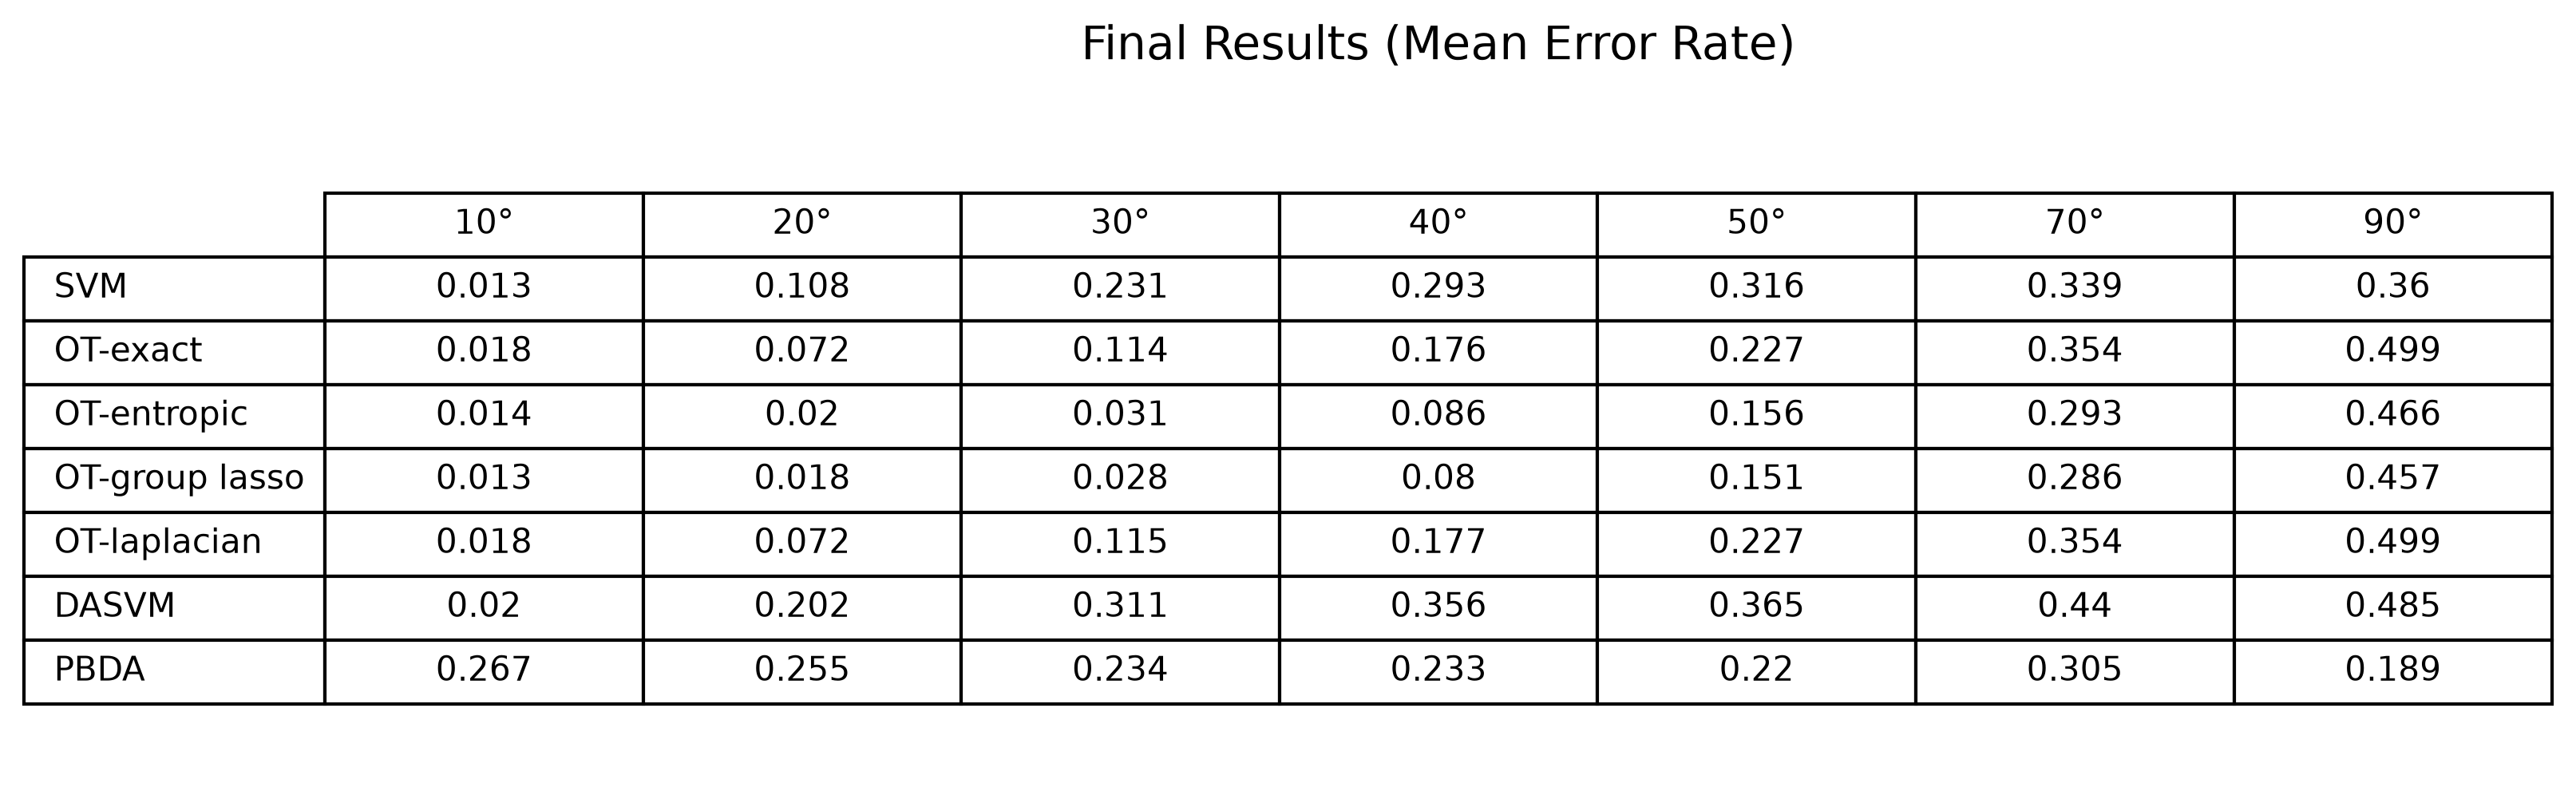
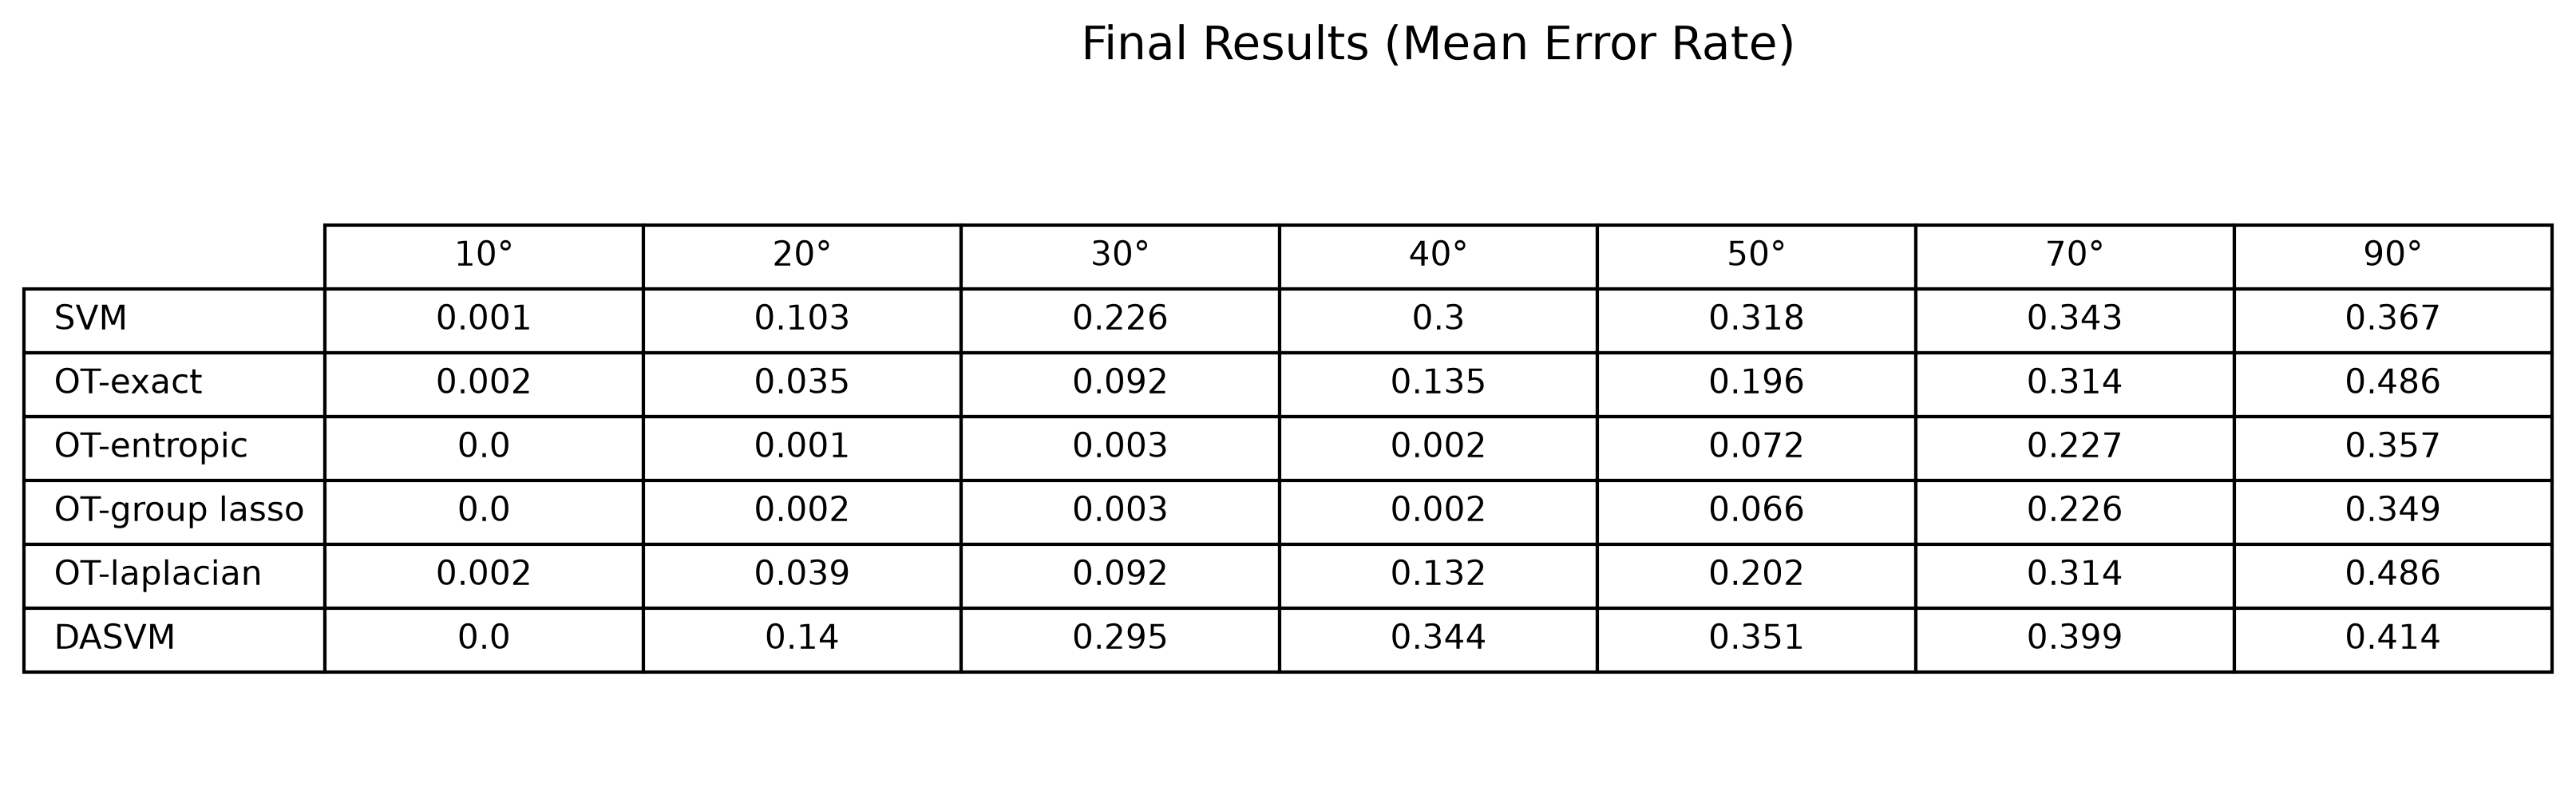
Redoing the expirements with reduced noises

Changed region(s): [[0.0, 0.2801, 0.9916, 0.9026], [0.124, 0.2179, 0.9916, 0.249]]

diff --git a/src/tpami2016_optimal_transport_domain_adaptation/common.py b/src/tpami2016_optimal_transport_domain_adaptation/common.py
@@ -13,150 +13,3 @@ def cost_matrix(A: np.ndarray, B: np.ndarray) -> np.ndarray:
     return C ** 2
 
 
-#-*- coding:utf-8 -*-
-'''
-PAC-BAYESIAN DOMAIN ADAPTATION (aka PBDA)
-Kernel class and KernelClassifier class
-
-@author: Pascal Germain -- http://researchers.lille.inria.fr/pgermain/
-'''
-import numpy as np
-from scipy.spatial.distance import cdist
-from scipy.sparse import issparse
-
-
-# kernel functions
-def linear_kernel(point_1, point_2):
-    return np.dot(point_1, point_2)
-
-
-def linear_matrix(X1, X2):
-    return np.dot(X1, X2.T)
-
-
-def rbf_kernel(point_1, point_2, gamma):
-    diff = point_1 - point_2
-    return np.exp(-gamma * np.dot(diff, diff))
-
-
-def rbf_matrix(X1, X2, gamma):
-    return np.exp(-gamma * cdist(X1, X2, 'sqeuclidean') )
-
-
-def precomputed_matrix(X1, X2):
-    return X2.T
-
-
-class Kernel:
-    """
-    Wrapper around a kernel function.
-    """    
-    def __init__(self, kernel_str='linear', kernel_func=None, matrix_func=None, **kernel_args):
-        """Create a kernel
-        kernel_str: kernel name ('linear', 'rbf', 'precomputed', 'custom')
-        kernel_func: if kernel_str='custom', function to compute the kernel between two example vectors
-        matrix_func: if kernel_str='custom', function to compute the kernel between two example matrices
-        kernel_args: extra kernel arguments (e.g., gamma for the 'rbf' kernel)"""
-        self.name = kernel_str
-        self.args = kernel_args
-        
-        if self.name == 'custom':
-            self.kernel_func = kernel_func
-            self.matrix_func = matrix_func 
-                 
-        elif self.name == 'rbf':
-            self.args.setdefault('gamma', 1.0)
-            self.kernel_func = rbf_kernel
-            self.matrix_func = rbf_matrix 
-            
-        elif self.name == 'linear':
-            self.kernel_func = linear_kernel
-            self.matrix_func = linear_matrix
-            
-        elif self.name == 'precomputed':
-            self.kernel_func = None
-            self.matrix_func = precomputed_matrix
-                     
-        else:
-            raise Exception("Unknown kernel.")
-        
-    def create_matrix(self, X1, X2=None):
-        """Compute the kernel matrix between two example matrices (X1 and X2)
-        If X2 is not specified, then X2=X1"""
-        if self.matrix_func is not None:
-            if X2 is None: X2 = X1
-            kernel_matrix = self.matrix_func(X1, X2, **self.args)
-        
-        elif self.kernel_func is not None:
-            if X2 is not None:
-                dim1 = np.size(X1,0)
-                dim2 = np.size(X2,0)
-                kernel_matrix = np.zeros( (dim1,dim2) )
-                
-                for i in range(dim1):
-                    for j in range(dim2):
-                        kernel_matrix[i,j] = self.kernel_func(X1[i], X2[j], **self.args) 
-            else:
-                dim1 = np.size(X1,0)
-                kernel_matrix = np.zeros( (dim1,dim1) )
-                
-                for i in range(dim1):
-                    for j in range(i+1):
-                        value = self.kernel_func(X1[i], X1[j], **self.args) 
-                        kernel_matrix[i,j] = value
-                        kernel_matrix[j,i] = value       
-        
-        else:
-            raise Exception('kernel function unspecified.')
-        
-        if issparse(kernel_matrix):
-            return kernel_matrix.toarray()
-        else:
-            return kernel_matrix 
-  
-
-class KernelClassifier:
-    """
-    A linear classifier in the kernel space.
-    """
-    def __init__(self, kernel, X, alpha_vector=None):
-        """Create a kernel classifier.
-        kernel: the kernel object
-        X: training examples matrix
-        alpha_vector: weight vector (optional) """
-        self.kernel = kernel
-        self.X1 = X
-        self.X1_shape = np.shape(X) if X is not None else (0,0)
-        
-        if alpha_vector is None:
-            self.alpha_vector = np.zeros(self.X1_shape[0])
-        else:
-            self.alpha_vector = alpha_vector
-
-    def create_matrix(self, X2):
-        """Create a kernel matrix between the training matrix and X2"""
-        return self.kernel.create_matrix(self.X1, X2)
-          
-    def create_self_matrix(self): 
-        """Create a kernel matrix between the training matrix and itself"""  
-        return self.kernel.create_matrix(self.X1)
-    
-    def predict(self, X=None, kernel_matrix=None):
-        """Classifies examples (i.e., return a prediction vector)""" 
-        if kernel_matrix is None:
-            if X is not None:
-                kernel_matrix = self.create_matrix(X)
-            else:
-                raise Exception('Nothing to classify!')
-            
-        return np.dot(kernel_matrix.T, self.alpha_vector)
-    
-    def calc_risk(self, Y, X=None, kernel_matrix=None, predictions=None):
-        """Compute the classification risk on a datatset."""
-        if predictions is None:
-            predictions = self.predict(X, kernel_matrix)            
-        return np.mean( predictions * Y <= 0.0 )
-    
-    def write_to_file(self, filename):
-        """Write the weight vector into a file."""
-        self.alpha_vector.tofile(filename, '\n')

diff --git a/src/tpami2016_optimal_transport_domain_adaptation/datasets.py b/src/tpami2016_optimal_transport_domain_adaptation/datasets.py
@@ -14,7 +14,7 @@ class TwoMoonsDataset:
     angle is large, as the distributions become significantly different.
     """
 
-    def __init__(self, noise=0.1, seed=42):
+    def __init__(self, noise=0.01, seed=42):
         """
         Initialize the Two Moons dataset generator.
         
@@ -91,88 +91,53 @@ class TwoMoonsDataset:
         X = self.rotate(X, angle)
         return X, y
 
-class Dataset:
-    """ 
-    Binary classification dataset
-    
-    X -- Examples matrix (each row is a vector of features)
-    Y -- Label vector
-    """
-    def __init__(self, X=None, Y=None):
-        self.X = X
-        self.Y = Y
-        
-    def load_matrix_file(self, filename, separator=None, first_column_contains_labels=True, last_column_contains_labels=False):       
-        """ Load a matrix file, where each line defines an example.
-        first_column_contains_labels: specifies that first matrix column defines the labels (default)
-        last_column_contains_labels:  specifies that last matrix column defines the labels 
-        """
-        data_matrix = np.loadtxt(filename, delimiter=separator)
-        
-        if first_column_contains_labels and last_column_contains_labels:
-            raise Exception('first_column_contains_labels and last_column_contains_labels')
-        elif last_column_contains_labels:
-            self.X = data_matrix[ :, :-1 ]
-            self.Y = data_matrix[ :, -1 ]
-        elif first_column_contains_labels:
-            self.X = data_matrix[ :, 1: ]
-            self.Y = data_matrix[ :, 0] 
+
+# ========================== Code de visualisation ==========================
+def plot_two_moons():
+    dataset = TwoMoonsDataset(noise=0.1, seed=42)
+    angles = [0, 20, 40, 90]
+    n_samples = 300  # 150 par classe
+
+    # Création d'une figure avec 4 sous-graphiques
+    fig, axs = plt.subplots(2, 2, figsize=(12, 10))
+    axs = axs.ravel()
+
+    for i, angle in enumerate(angles):
+        if angle == 0:
+            X, y = dataset.source(n_samples)
+            title = "Source domain (0°)"
         else:
-            self.X = data_matrix
-            self.Y = np.zeros( np.size(data_matrix, 0) )       
+            X, y = dataset.target(n_samples, angle)
+            title = f"Target domain ({angle}°)"
 
-    def load_svmlight_file(self, filename, min_features=0):
-        """ Load a svmlight file (see http://svmlight.joachims.org/).
-        min_features: specifies the minimum number of features for an example
-        """
-        with open(filename) as f:
-            lines_list = f.readlines()
-                    
-        examples_list = []                  
-        labels_list   = []
-        nb_features   = min_features
+        # Séparation des deux classes
+        class0 = X[y == 0]
+        class1 = X[y == 1]
+
+        ax = axs[i]
+        ax.scatter(class0[:, 0], class0[:, 1], c='blue', label='Classe 0', alpha=0.7, s=40)
+        ax.scatter(class1[:, 0], class1[:, 1], c='red', label='Classe 1', alpha=0.7, s=40)
         
-        for line in lines_list:
-            elems_list = [ e.split(':') for e in line.split() ] 
-            
-            if len(elems_list[0]) == 1:
-                labels_list.append( float(elems_list[0][0]) )
-                first_feature_index = 1
-            else:
-                labels_list.append(0.0)
-                first_feature_index = 0
-            
-            features_list = [ tuple([ int(e[0]), float(e[1]) ])  for e in elems_list[first_feature_index:] ]
-            examples_list.append( features_list )
-            nb_features = max(nb_features, max( features_list )[0] )
-            
-        self.X = np.zeros( (len(labels_list), nb_features) )
-        for i in range( len(labels_list) ):
-            for (j, val) in examples_list[i]:
-                self.X[i,j-1] = val
-                
-        self.Y = np.array(labels_list)
-                 
-    def get_nb_examples(self):
-        """ Return the number of examples of the dataset. """
-        if self.X is None: return 0
-        return np.size(self.X, 0)       
+        ax.set_title(title, fontsize=14, fontweight='bold')
+        ax.set_xlabel("Feature 1")
+        ax.set_ylabel("Feature 2")
+        ax.grid(True, alpha=0.3)
+        ax.legend()
+
+    plt.tight_layout()
+    plt.suptitle("Two Moons Dataset - Rotation Analysis", fontsize=16, y=1.02)
+
+    # Sauvegarde des figures
+    plt.savefig("two_moons_rotations.png", dpi=300, bbox_inches='tight')
+    plt.savefig("two_moons_rotations.pdf", bbox_inches='tight')
     
-    def get_nb_features(self):
-        """ Return the number of features of each example. """
-        if self.X is None: return 0
-        return np.size(self.X, 1)
+    print("Figures sauvegardées dans le répertoire courant :")
+    print("   - two_moons_rotations.png")
+    print("   - two_moons_rotations.pdf")
+    
+    plt.show()
 
-    def select_examples(self, indices):
-        """ Select the examples of specified indices (and discard others).  """
-        self.X = self.X[indices]
-        self.Y = self.Y[indices]
-        
-    def reshape_features(self, new_nb_features):
-        """ Add or remove elements to feature vectors. """
-        diff_features = new_nb_features - self.get_nb_features()
-        if diff_features < 0:
-            self.X = self.X[:, :diff_features]        
-        elif diff_features > 0:
-            nb_examples = self.get_nb_examples()
-            self.X = np.hstack(( self.X, np.zeros([nb_examples, diff_features]) ))
+
+# ======================= Exécution =======================
+if __name__ == "__main__":
+    plot_two_moons()

diff --git a/src/tpami2016_optimal_transport_domain_adaptation/experiment_01/train_and_evaluate.py b/src/tpami2016_optimal_transport_domain_adaptation/experiment_01/train_and_evaluate.py
@@ -4,14 +4,12 @@ from sklearn.preprocessing import StandardScaler
 from sklearn.pipeline import make_pipeline
 from transport import TransportedSamples
 from tpami2016_optimal_transport_domain_adaptation.datasets import TwoMoonsDataset
-from pbda import Pbda
-from tpami2016_optimal_transport_domain_adaptation.datasets import Dataset
 from sklearn.base import clone
 from skada import DASVMClassifier, source_target_split
 from skada.datasets import make_dataset_from_moons_distribution  
 import numpy as np
 from sklearn.metrics import accuracy_score
-from tpami2016_optimal_transport_domain_adaptation.common import Kernel
+
 
 
 angles = [10, 20, 30, 40, 50, 70, 90]
@@ -19,7 +17,7 @@ ot_methods = ["exact", "entropic", "group lasso", "laplacian"]
 
 # rows : methods
 # cols : angles
-results = np.zeros((7, len(angles)))
+results = np.zeros((6, len(angles)))
 
 method_names = [
     "SVM",
@@ -28,7 +26,6 @@ method_names = [
     "OT-group lasso",
     "OT-laplacian",
     "DASVM",
-    "PBDA",
 ]
 
 for j, angle in enumerate(angles):
@@ -38,7 +35,7 @@ for j, angle in enumerate(angles):
     print(f"Angle {angle}° ({j+1}/{len(angles)})")
     print("=" * 70)
 
-    scores = np.zeros(7)
+    scores = np.zeros(6)
 
     for seed in range(10):
 
@@ -161,23 +158,7 @@ for j, angle in enumerate(angles):
 
         scores[5] += accuracy_score(y_test, y_pred)
 
-        #####################################################
-        # 4) PBDA
-        #####################################################
 
-        pbda = Pbda(C =1,  A = 10)
-
-        source_data = Dataset(Xs, ys)
-        target_data = Dataset(Xt, yt)
-
-        classifier = pbda.learn(
-        source_data,
-        target_data,
-)
-        y_score = classifier.predict(X_test)
-        y_pred = (y_score > 0).astype(int)
-
-        scores[6] += accuracy_score(y_test, y_pred)
 
     #########################################################
     # Mean error rate for one angle